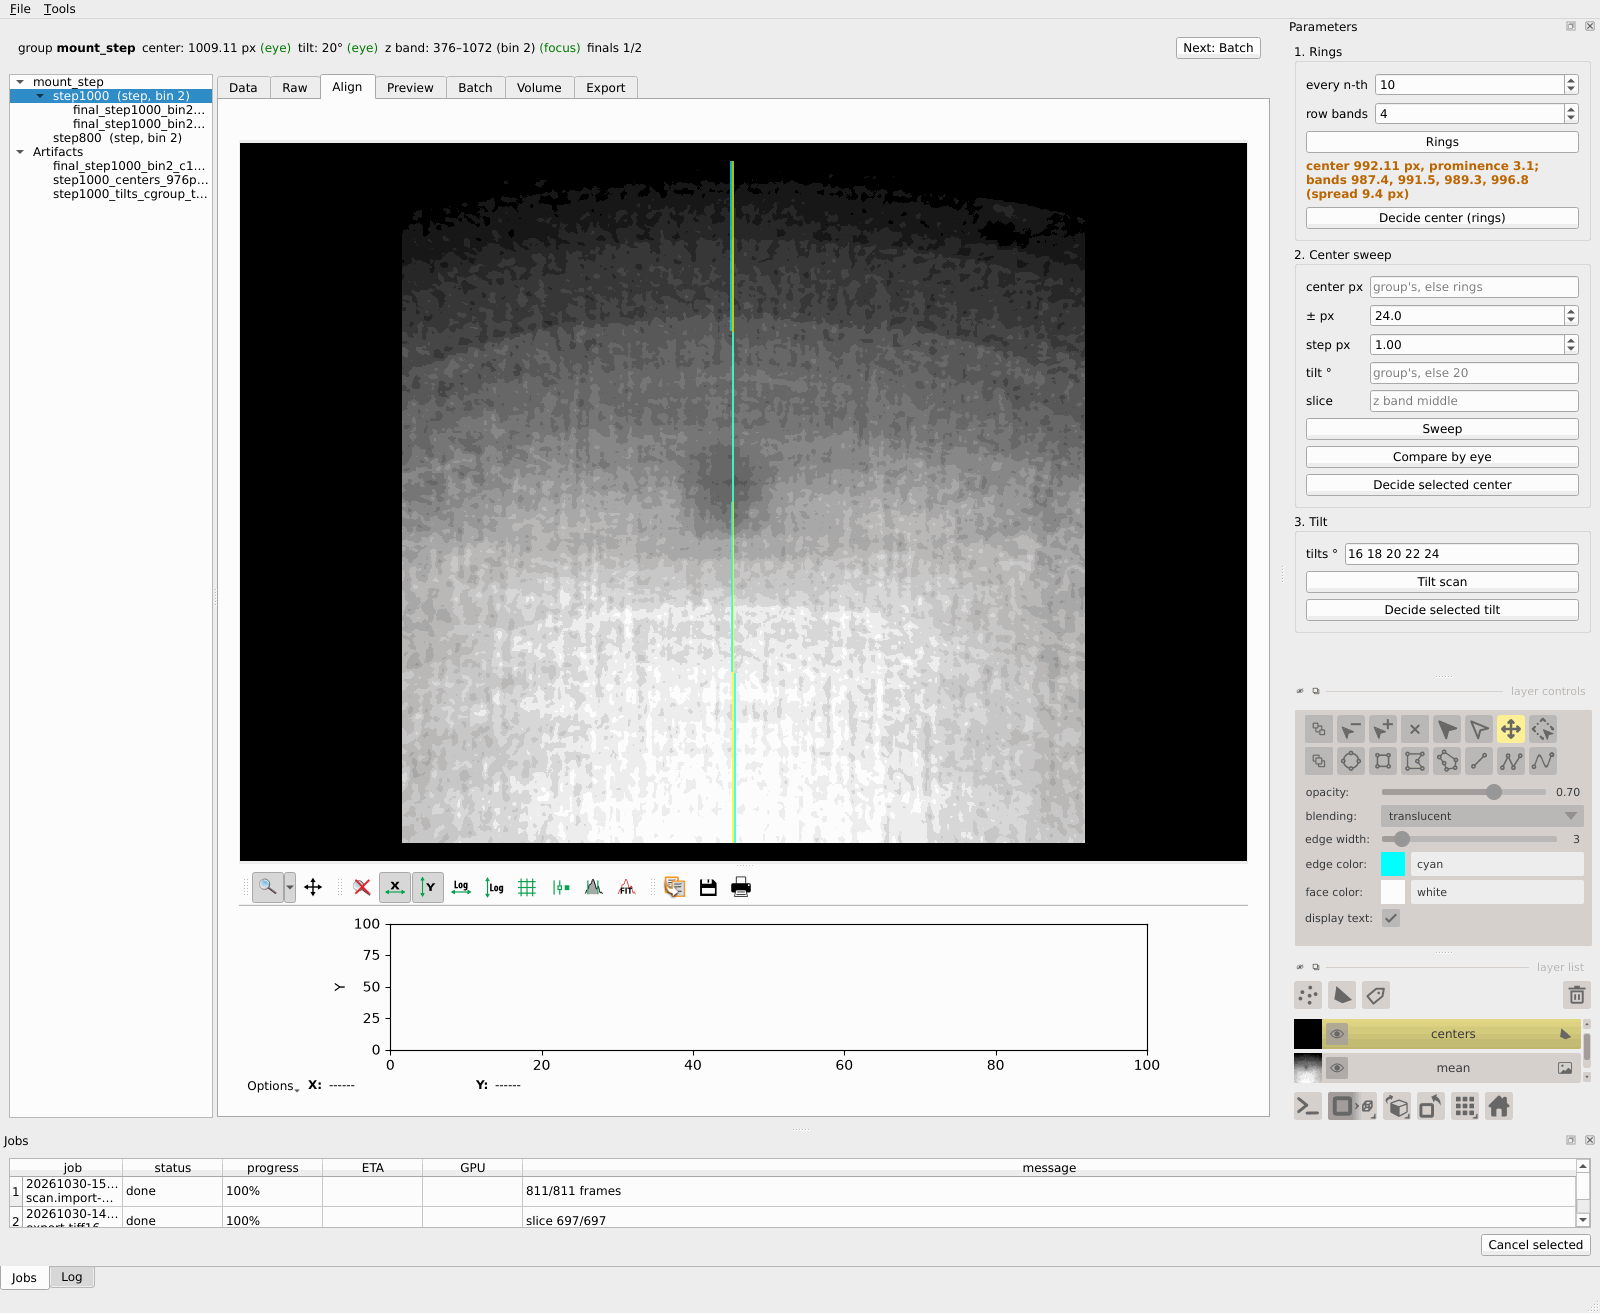
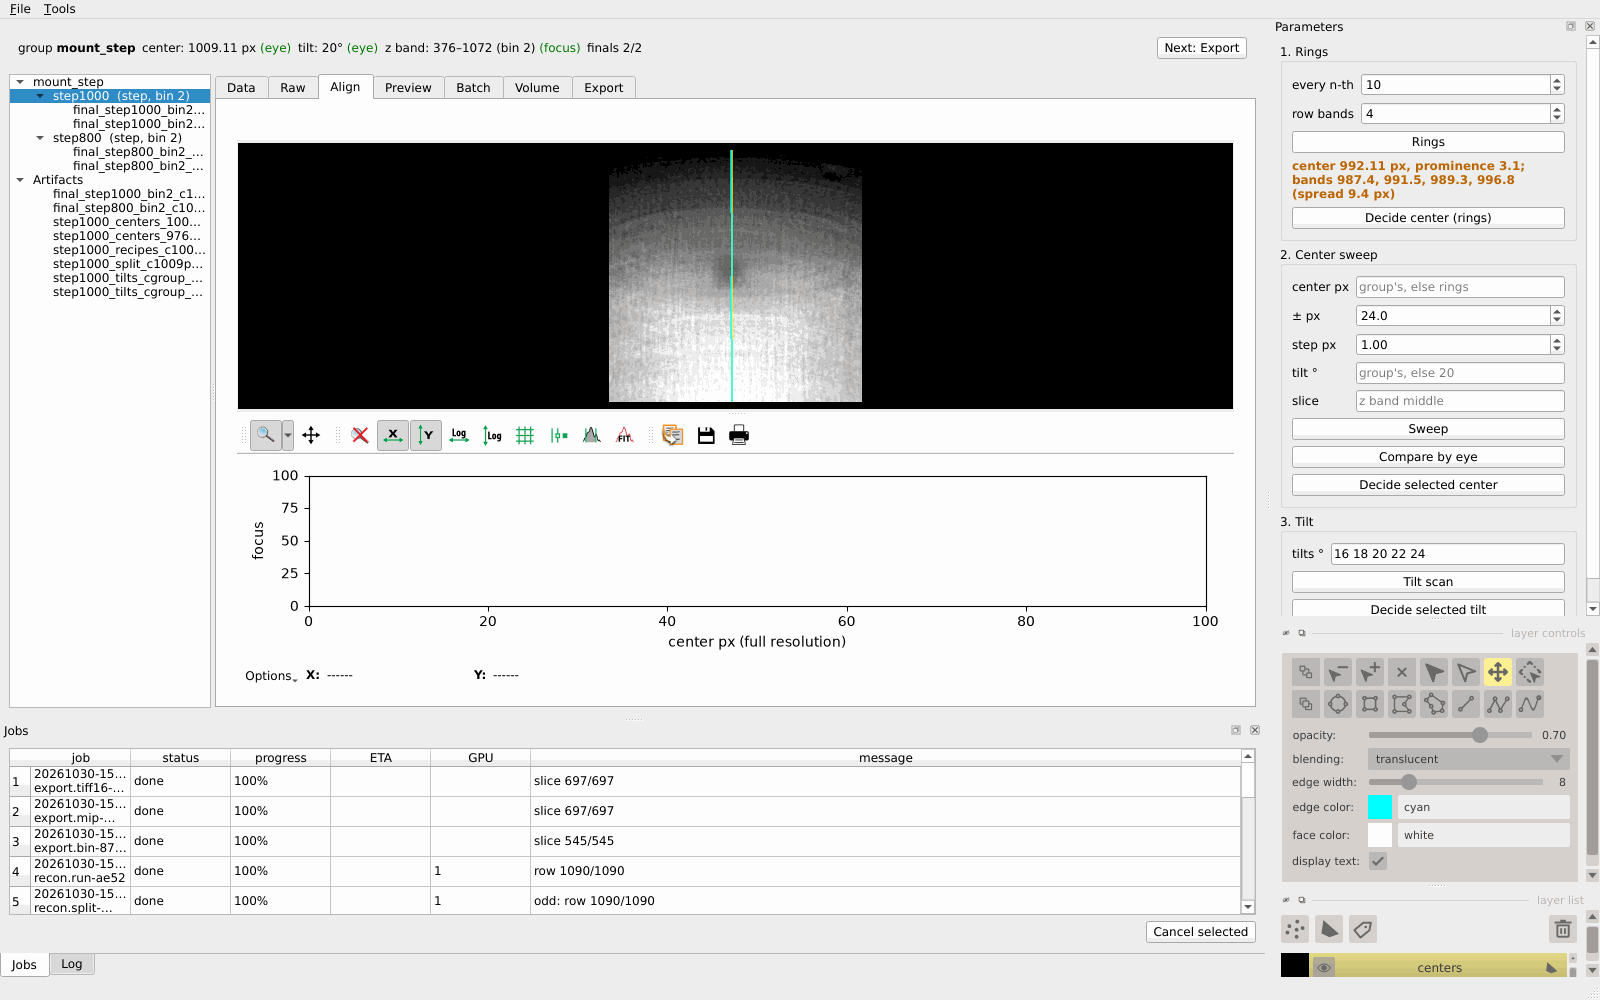
gui: name a graph's axes as it is made (Tab.graph)
A graph that set its labels only with a result, or set one of them, showed
silx's "X" and "Y" until then or for good: FRC's y, Align's y before a
sweep, focus by z before a run. Align still names x per mode.

diff --git a/python/lamino_pal/gui/tabs/align.py b/python/lamino_pal/gui/tabs/align.py
@@ -37,7 +37,7 @@ class AlignTab(Tab):
     def __init__(self, win):
         super().__init__(win)
         self.view = self.viewer("align")
-        self.plot = self.graph("focus")
+        self.plot = self.graph("focus", "center px (full resolution)", "focus")
         self.plot.sigPlotSignal.connect(self._clicked)
         self.view.model.mouse_drag_callbacks.append(self._press)
         self.view.model.dims.events.current_step.connect(self._stepped)
@@ -299,7 +299,6 @@ class AlignTab(Tab):
             self.plot.addXMarker(x.center_px, legend=f"rival {x.index}", color="orange")
         self.plot.setGraphTitle(", ".join(["best (green)", *(["rivals (orange)"] if v.rivals else []), PICKED]))
         self.plot.getXAxis().setLabel("center px (full resolution)")
-        self.plot.getYAxis().setLabel("focus")
         head = f"{v.kind}: center {v.center_px:.2f} px on slice {r.slice} at tilt {r.tilt_deg:g}°"
         head += f" (center from {r.center_from})"
         if v.kind == "resolved":

diff --git a/python/lamino_pal/gui/tabs/preview.py b/python/lamino_pal/gui/tabs/preview.py
@@ -57,7 +57,7 @@ class PreviewTab(Tab):
         self.cnr.setEditTriggers(qt.QAbstractItemView.NoEditTriggers)
         self.cnr.itemSelectionChanged.connect(self._variant)
         self.cnr.hide()
-        self.frc = self.graph("FRC")
+        self.frc = self.graph("FRC", "cycles per pixel", "FRC")
         self.frc.hide()
         layout = qt.QVBoxLayout(self)
         layout.addWidget(self.info)
@@ -283,7 +283,6 @@ class PreviewTab(Tab):
             n = len(f)
             self.frc.addCurve(np.arange(n) / (2 * n), f, legend="FRC", color="black")
             self.frc.addYMarker(1 / 7, legend="1/7", text="1/7", color="gray")
-            self.frc.getXAxis().setLabel("cycles per pixel")
             self.frc.show()
             for i, half in enumerate(("even", "odd")):
                 w = (float(np.percentile(a["slice"][i], 0.5)), float(np.percentile(a["slice"][i], 99.5)))

diff --git a/python/lamino_pal/gui/tabs/volume.py b/python/lamino_pal/gui/tabs/volume.py
@@ -61,7 +61,7 @@ class VolumeTab(Tab):
         self.view3d.model.dims.ndisplay = 3
         self.info = qt.QLabel(wordWrap=True)
         self.fov = qt.QLabel(wordWrap=True)
-        self.plot = self.graph("focus by z")
+        self.plot = self.graph("focus by z", "slice z", "focus (mean |∇|²)")
         self.plot.sigPlotSignal.connect(self._marker_moved)
         aux = qt.QSplitter(qt.Qt.Vertical)
         aux.addWidget(self.views["y"])
@@ -271,8 +271,6 @@ class VolumeTab(Tab):
         z = np.arange(len(f)) * r.step
         self.plot.addCurve(z, f, legend="focus", color="black")
         self.plot.addXMarker(r.peak_z, legend="peak", color="gray")
-        self.plot.getXAxis().setLabel("slice z")
-        self.plot.getYAxis().setLabel("focus (mean |∇|²)")
         if r.band is not None:
             self.z0.setValue(r.band[0])
             self.z1.setValue(r.band[1])

diff --git a/python/lamino_pal/gui/tabs/export.py b/python/lamino_pal/gui/tabs/export.py
@@ -28,13 +28,11 @@ class ExportTab(Tab):
     def __init__(self, win):
         super().__init__(win)
         self.info = qt.QLabel(wordWrap=True)
-        self.hist = self.graph("histogram")
-        self.hist.getXAxis().setLabel("value")
-        self.hist.getYAxis().setLabel("voxels")
+        self.hist = self.graph("histogram", "value", "voxels")
         self.mips = {}
         row = qt.QSplitter(qt.Qt.Horizontal)
         for k, title in MIPS:
-            p = self.graph(f"MIP {k}", Plot2D)
+            p = self.graph(f"MIP {k}", "Columns", "Rows", Plot2D)
             p.setGraphTitle(f"MIP {title}")
             p.setKeepDataAspectRatio(True)
             p.setYAxisInverted(True)

diff --git a/tests/test_gui.py b/tests/test_gui.py
@@ -466,6 +466,13 @@ def test_a_graphs_markers_are_named_in_its_title_not_on_the_plot_where_close_one
     )
 
 
+def test_every_graph_names_its_axes_before_its_first_result(win):
+    for tab in win.tabs.values():
+        for name, g in tab.graphs.items():
+            # silx's own names for a Plot1D's axes.
+            assert g.getXAxis().getLabel() != "X" and g.getYAxis().getLabel() != "Y", name
+
+
 def test_a_graph_at_the_windows_least_size_draws_all_its_text_and_a_plot(app, win):
     from lamino_pal.gui.tabs.align import PICKED, TILT_FOCUS
     from lamino_pal.ops.export import WindowResult

diff --git a/python/lamino_pal/gui/tabs/base.py b/python/lamino_pal/gui/tabs/base.py
@@ -90,9 +90,11 @@ class Tab(qt.QWidget):
         self.viewers.append(v)
         return v
 
-    def graph(self, title: str, cls: type[PlotWidget] = Plot1D) -> PlotWidget:
-        """A graph of this tab, named `title` to an agent."""
+    def graph(self, title: str, x: str, y: str, cls: type[PlotWidget] = Plot1D) -> PlotWidget:
+        """A graph of this tab with axes `x` and `y`, named `title` to an agent."""
         p = cls()
+        p.getXAxis().setLabel(x)
+        p.getYAxis().setLabel(y)
         p.setMinimumSize(*GRAPH_SIZE)
         self.graphs[title] = p
         return p
